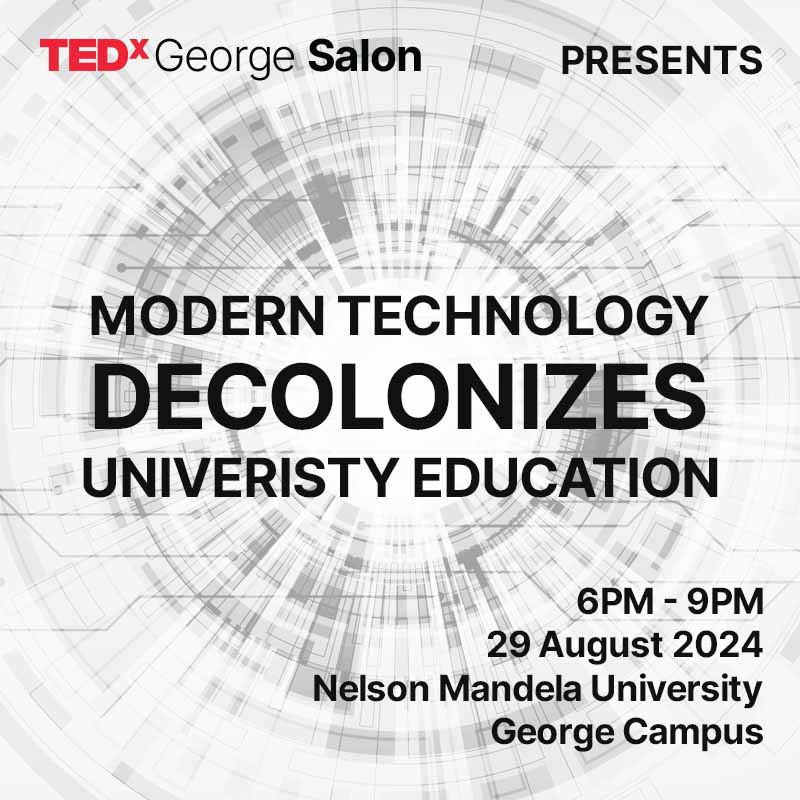
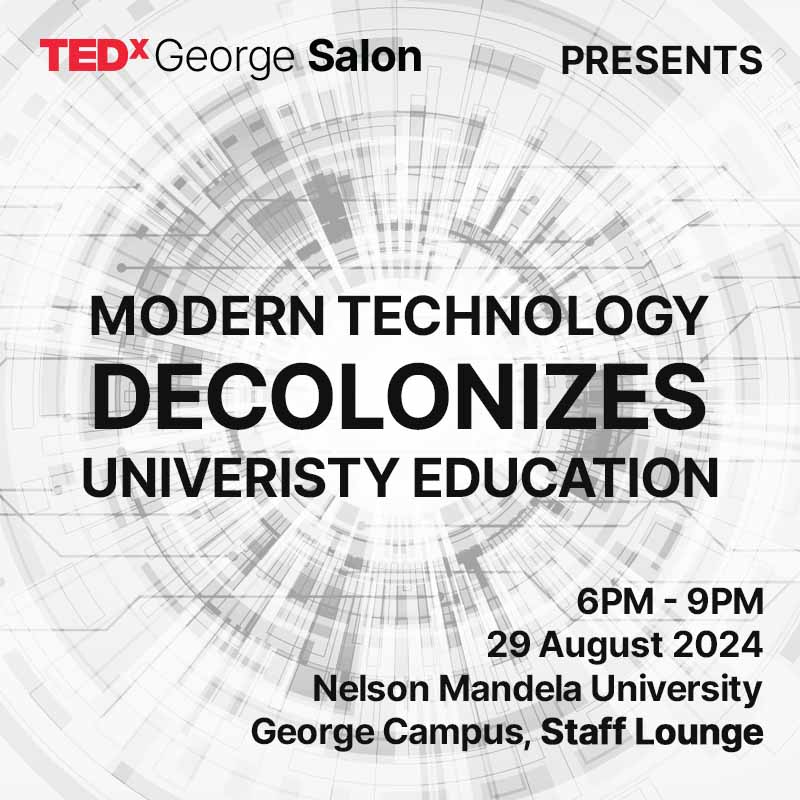
staff lounche

Changed region(s): [[0.3125, 0.875, 0.9688, 0.9375]]

diff --git a/lib/speakerList.js b/lib/speakerList.js
@@ -99,22 +99,6 @@ export const speakerList = [
     },
     {
         event: "TEDxGeorge",
-        first_name: "Melumzi",
-        last_name: "Matiwane",
-        slug: "melumzi-matiwane",
-        image: "https://dummyimage.com/400x400/000/fff",
-        image_2: "https://dummyimage.com/400x400/111/fff",
-        bio: "",
-        organization: "Founder, Thembalethu Trailblazers",
-        social: {
-            facebook: "",
-            twitter: "",
-            instagram: "",
-            website: ""
-        }
-    },
-    {
-        event: "TEDxGeorge",
         first_name: "Edmondo",
         last_name: "van der Berg",
         slug: "edmondo-van-der-berg",
@@ -137,7 +121,7 @@ export const speakerList = [
         image: "https://dummyimage.com/400x400/000/fff",
         image_2: "https://dummyimage.com/400x400/111/fff",
         bio: "",
-        organization: "Jazz Music Teacher",
+        organization: "Jazz Musician",
         social: {
             facebook: "",
             twitter: "",
@@ -208,5 +192,22 @@ export const speakerList = [
             instagram: "",
             website: ""
         }
+    },
+    {
+        event: "TEDxGeorge 2024",
+        first_name: "Anthony",
+        last_name: "Noble",
+        slug: "anthony-noble",
+        image: "https://dummyimage.com/400x400/000/fff",
+        image_2: "https://dummyimage.com/400x400/111/fff",
+        bio: "",
+        organization: "Anthony Noble Art",
+        social: {
+            facebook: "",
+            twitter: "",
+            instagram: "",
+            website: ""
+        }
+
     }
 ]

diff --git a/lib/eventList.js b/lib/eventList.js
@@ -29,7 +29,7 @@ export const eventsList = [
         type: "TEDxGeorge Salon",
         title: "How Modern Technology Decolonizes University Education",
         date: "29 August 2024",
-        location: "Nelson Mandela University, George Campus",
+        location: "Nelson Mandela University, George Campus, Staff Lounge",
         time: "6pm - 9pm",
         src: education.src,
         href: "/events/details/modern-technology-decolonizes-university-education",
